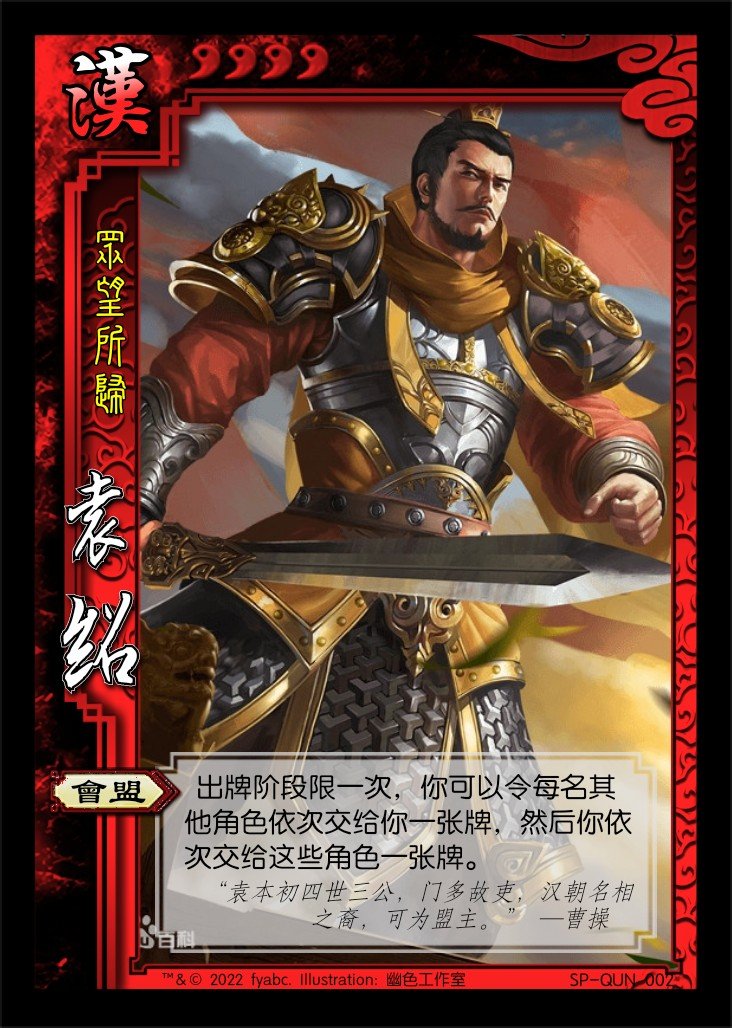
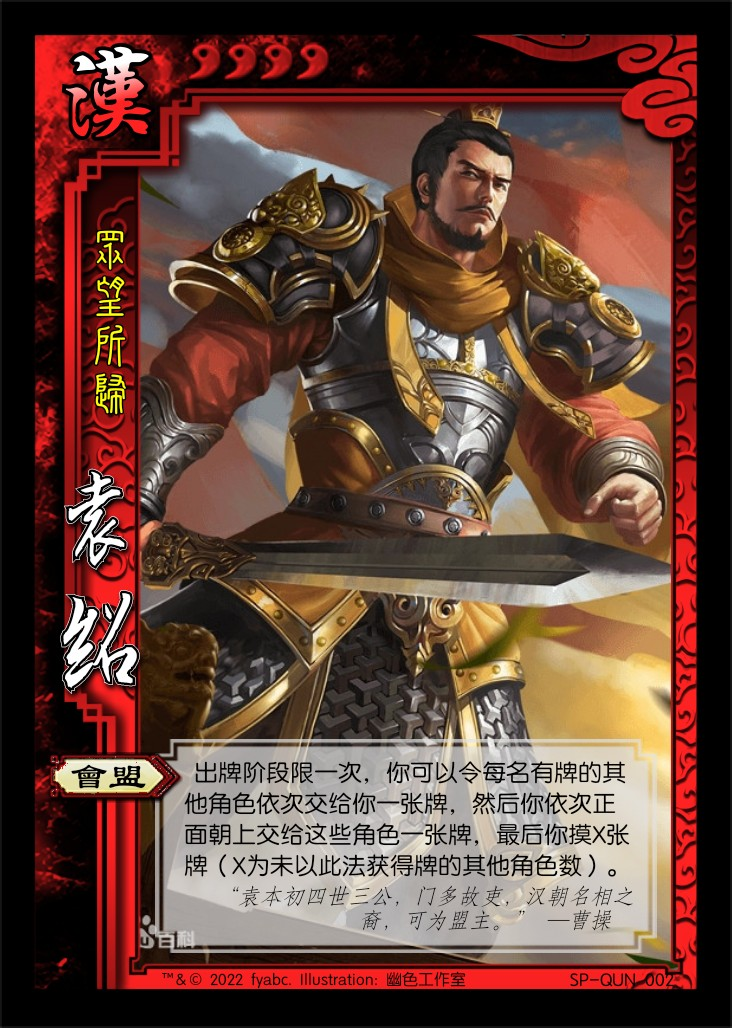
More cards in ext3.

Changed region(s): [[0.0601, 0.716, 0.9016, 0.9027]]

diff --git a/SanGuoSha/SGS-RebirthProject/ext3.md b/SanGuoSha/SGS-RebirthProject/ext3.md
@@ -147,24 +147,27 @@
    1. 【名士】：当一名其他角色使用一张非转化的牌指定你为目标后，你可以将手牌摸至X张（X为牌名字数且至多为4）。
    2. 【礼让】：出牌阶段，你可以将一张♥牌当援军牌使用；当你支援一张【桃】后，可以摸一张牌。
 
-   > 【名士】需要测试技能强度。  
+   > 【礼让】体现孔融让梨（桃）的典故。  
+   > TODO：【名士】需要测试技能强度。  
    > 本扩展四个汉势力角色的技能包含四种花色中的各一个（孔融为♥）。  
 6. ![韩馥](./assets/images/heroes/韩馥.jpg) HAN012 韩馥 男 汉 3体力 称号：度势恇然
-   1. 【供粮】：出牌阶段限一次，你可以将某一花色的所有手牌当【五谷丰登】使用；你使用【五谷丰登】可以少选择一个目标。
-   2. 【庸怯】：**锁定技**，你的手牌始终明置；当你不因此技能获得或失去手牌时，若这些牌中有♦花色的牌，当前回合角色摸一张牌（每回合限三张）。
+   1. 【供粮】：出牌阶段限一次，你可以展示所有手牌，然后将其中某一花色的所有牌当【五谷丰登】使用；你使用【五谷丰登】可以少选择一个目标。
+   2. 【庸怯】：当你不因此技能获得或失去手牌时，当前回合角色可以令你展示这些牌。若其中有♦牌，其摸一张牌（每回合限四张）。
 
    > 【庸怯】说明：1) 若一次性获得或失去了多张手牌（例如摸牌阶段和弃牌阶段），则这些牌至少有一张♦花色即可触发摸牌；2) 韩馥因【庸怯】获得的牌无法触发【庸怯】。  
    > 【庸怯】与讨董联盟时期的袁绍可以相互配合（但受益者为袁绍）；被主版本袁绍克制（响应【万箭齐发】的【闪】多为♦花色），契合人物关系。  
    > 【供粮】反映了诸侯讨董过程中，韩馥留守邺城供给军粮的事迹，也与【庸怯】配合，消耗多余♦牌，并且获得想要的牌。  
    > 本扩展四个汉势力角色的技能包含四种花色中的各一个（韩馥为♦）。  
    > TODO：测试武将强度。
-7. ![鲍信](./assets/images/heroes/鲍信.jpg) HAN013 鲍信 男 汉 4体力 称号：济北相
-   1. 【竭援】：（TODO：与曹操配合，且带有♠）
+7. ![鲍信](./assets/images/heroes/鲍信.jpg) HAN013 鲍信 男 汉 3体力 称号：济北相
+   1. 【力战】：出牌阶段限一次，你可以将一张♠手牌当【冲阵】使用；你可以对任意其他角色使用【冲阵】。
+   2. 【竭援】：一名角色的回合结束时，若该角色本回合造成的伤害数不小于2，你可弃置一张牌，令该角色回复1点体力。
 
+   > 【竭援】可以联动曹操和鲍信自身的技能。  
    > 本扩展四个汉势力角色的技能包含四种花色中的各一个（鲍信为♠）。  
-8. ![臧洪](./assets/images/heroes/刘虞.jpg) HAN014 臧洪 男 汉 3体力 称号：首举义旗
+8. ![臧洪](./assets/images/heroes/臧洪.jpg) HAN014 臧洪 男 汉 3体力 称号：首举义旗
    1. 【倡义】：出牌阶段，你可以将一张♣牌当【勠力同心】使用；当一名角色受到属性伤害时，你可以将一张牌交给该角色，将此伤害变为等量的普通伤害。
-   2. 【陈词】：出牌阶段限一次，你可以令你和所有横置的其他角色以你指定的顺序各展示一张手牌。若这些牌的花色相同，则每名展示牌的角色各摸一张牌；否则弃置所有展示的牌。
+   2. 【陈词】：出牌阶段限一次，你可以令你和所有横置的其他角色以你指定的顺序各展示一张手牌。若这些牌的颜色相同，则每名展示牌的角色各摸一张牌；否则弃置所有展示的牌。
 
    > 表现臧洪首倡讨董联军时期的事迹，【陈词】对应臧洪发表盟誓演讲的历史事件（《三国志》和《后汉书》均全文收录了演讲词）。  
    > 在【陈词】展示手牌的过程中，符合条件但没有手牌的角色被跳过，不参与展示牌和后续结算（若臧洪本人没有手牌，也会被跳过）。  
@@ -174,7 +177,7 @@
 ----
 
 1. ![SP袁绍](./assets/images/heroes/SP袁绍.jpg) SP-QUN002 SP袁绍 男 汉 4体力 称号：众望所归
-   1. 【会盟】：出牌阶段限一次，你可以令每名其他角色依次交给你一张牌，然后你依次交给这些角色一张牌。
+   1. 【会盟】：出牌阶段限一次，你可以令每名有手牌的其他角色依次交给你一张牌，然后你依次正面朝上交给这些角色一张牌，最后你摸X张牌（X为未以此法获得牌的其他角色数）。
 
 2. ![SP孙坚](./assets/images/heroes/SP孙坚.jpg) SP-WU003 SP孙坚 男 汉 4体力 称号：义军先锋
    1. 【破军】：当你于出牌阶段内使用【杀】指定一个目标后，你可以将其至多X张牌扣置于该角色的武将牌旁（X为其体力值）。若如此做，当前回合结束后，该角色获得这些牌。
@@ -190,8 +193,9 @@
 ----
 
 1. ![神吕布](./assets/images/heroes/神吕布.jpg) LE003 吕布 男 神 5体力/8上限 称号：最强神话  
-   1. 【无前】：出牌阶段，你可以将两张相同花色的牌当【决斗】、【冲阵】或【摧锋夺锐】使用。
+   1. 【修罗】：**锁定技**，当你对一名其他角色造成1点伤害后，该角色获得1枚“惧”（至多3枚）。
    2. 【无谋】：**锁定技**，当你使用一张除【决斗】、【冲阵】和【摧锋夺锐】以外的锦囊牌时，你失去1点体力或减1点体力上限。
-   3. 【神愤】：TODO
+   3. 【无前】：出牌阶段，你可以将两张相同花色的牌当【决斗】、【冲阵】或【摧锋夺锐】使用；然后你可以弃置任意名角色的各1枚“惧”，这些角色不能响应此牌。
+   4. 【神愤】：结束阶段，你可以令所有角色依次按其“惧”的个数执行以下效果：至少为1，你对其造成1点伤害；至少为2，弃置四张手牌；至少为3，弃置所有装备区的牌。然后弃置所有角色的所有“惧”，你翻面。
 
    > TODO：添加【神愤】技能，为神吕布添加神性。

diff --git a/SanGuoSha/SGS-RebirthProject/scenes/scene1.md b/SanGuoSha/SGS-RebirthProject/scenes/scene1.md
@@ -1,15 +1,21 @@
 # 三国杀重置计划 新场景1：黄巾起义
 
+## 背景
+
+东汉末年，民不聊生，人心思变，一位名叫张角的道士借传教之机，暗中勾连各方势力，欲行大事……
+
 ## 游戏规则
 
 1. 人数：待定
 2. 阵营划分
-   1. 黄巾：
-   2. 汉廷：
+   1. 黄巾：主帅+若干前锋
+   2. 汉廷：主帅+若干前锋
 3. 特殊规则
    1. 民愤：一个记录条，表示当前民愤的大小，初始值为X。
       1. 额外胜利方式：若回合结束时民愤不大于0，则汉廷胜利；若回合结束时民愤不小于2X，则黄巾胜利。
       2. 有卡牌和技能可以调整民愤。
-      3. 可以通过消耗（增减）民愤视为使用一张牌。
+      3. 可以通过消耗（增减）一定数量的民愤视为使用一张牌。
       4. 民愤的具体数值可能产生其他的持续性效果。
+      5. 每轮开始时，进行判定，根据结果增减民愤：♠=+2，♣=+1，♦=0，♥=-1（黄巾势力判定和改判能力较多，能更好利用这一机制）
 4. 游戏流程
+   1. TODO

diff --git a/SanGuoSha/SGS-RebirthProject/scenes/scene2.md b/SanGuoSha/SGS-RebirthProject/scenes/scene2.md
@@ -1,5 +1,9 @@
 # 三国杀重置计划 新场景2：长安混战
 
+## 背景
+
+董卓死后，李傕郭汜反戈一击，杀死王允，并在长安混战，争夺天子百官，百姓民不聊生……
+
 ## 游戏规则
 
 1. 人数：5人/8人
@@ -17,3 +21,4 @@
    1. 场景
       1. 类似标准版中的场景牌和官方“文和乱武”模式每轮开始时的固定事件
 6. 游戏流程
+   1. TODO
